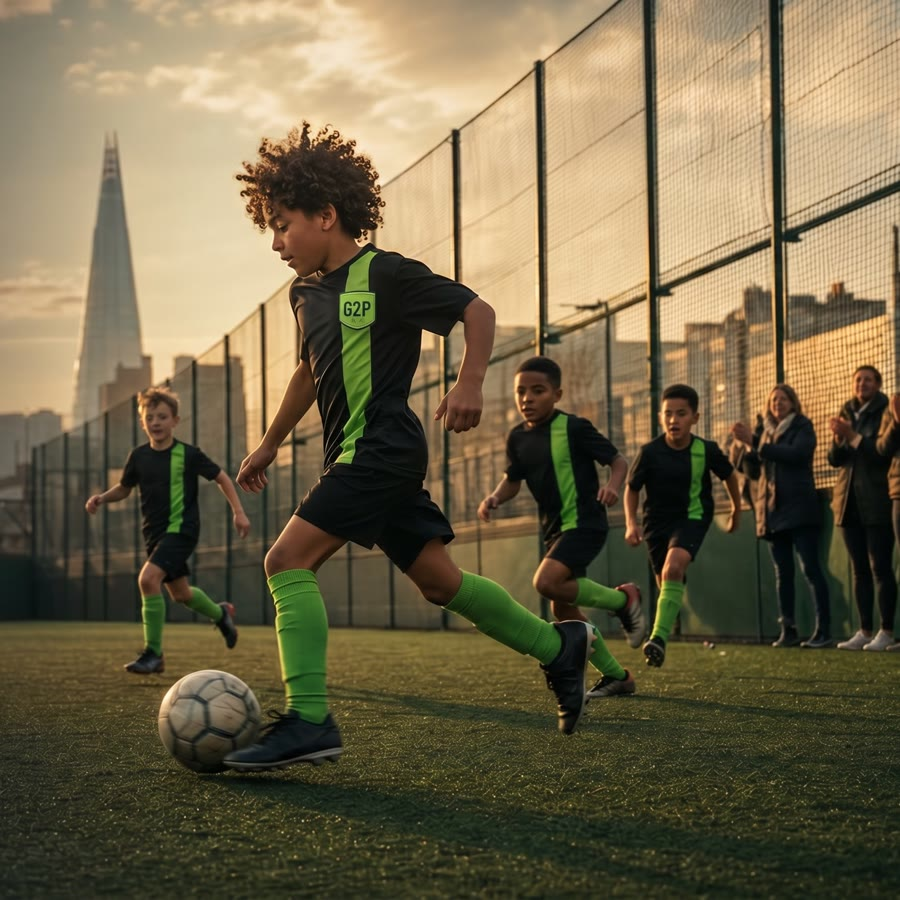
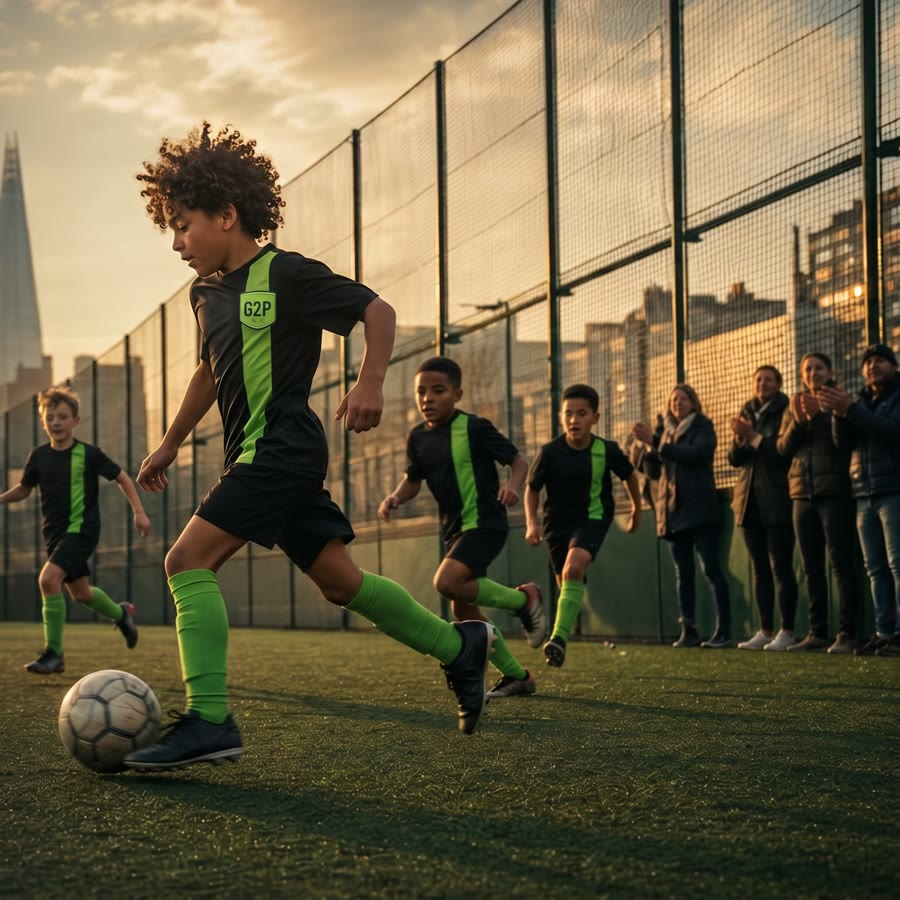
fix(homepage): mobile hero text positioning + reframe to keep parents
Five iPhone fixes from real-device testing:
1. Re-cropped portrait variant from x=0.38 -> x=0.46 of landscape so
   the cheering parents on the right are fully visible (was clipping
   half the parent group).
2. Kicker 'UK GRASSROOTS FOOTBALL, ORGANISED' now sits above the
   hero player's head (was over his face) by pushing all hero text
   to the bottom of the photo.
3. Headline 'Every match / Every minute / Every player' drops down
   so it sits on the pitch grass, revealing more of the photo.
4. Subhead now lives below the photo over the dark band, not over
   the player's legs.
5. Closed the big black gap between CTAs and the 'For parents' card
   by setting hero min-height: 0 + align-items: flex-end so the hero
   sizes to its content on phones (was 80vh / 700px reserve).

Mechanics: aspect-ratio: 1/1 on the photo card matches the new
900x900 source. Hero text uses padding-top: 62vw so the kicker lands
just above the player's head regardless of phone size. Gradient is
now a clean top-to-bottom fade so the upper crowd/sky stays bright
and the lower copy stays legible.

diff --git a/src/index.css b/src/index.css
@@ -5653,27 +5653,45 @@ html[data-surface="homepage"] body {
   .homepage-topbar {
     padding: 18px 20px;
   }
+  /* Mobile hero: align-items flex-end so the text block sits at the
+     BOTTOM of the photo (kicker just above the leading player's head,
+     CTAs near the lower edge), and let height grow to fit content so
+     there's no big black gap between the CTAs and the next section. */
   .homepage-hero {
     padding: 0 20px;
-    min-height: clamp(520px, 80vh, 700px);
+    min-height: 0;
+    align-items: flex-end;
   }
   /* Mobile uses a square 900x900 portrait variant (see HomepageCover
-     <picture>) that already shows the full scene. Keep cover so it
-     fills the hero, and centre it horizontally so the hero kid stays
-     roughly mid-frame. */
+     <picture>) that already shows the full scene. Centre it so the
+     hero kid sits left-of-centre and the cheering parents sit right. */
   .homepage-hero-photo img {
     object-position: center center;
   }
-  /* Soften the left-side gradient on phones so the parents/kids on
-     the right of the (now centred) crop don't get washed out, and
-     drop a darker bottom band to keep the headline legible. */
+  /* Vertical gradient: clear at the top so the kicker reads on the
+     soft sky, dark at the bottom so the headline + subhead + CTAs
+     stay legible over the pitch. */
   .homepage-hero-overlay {
-    background:
-      linear-gradient(180deg, rgba(11, 13, 10, 0.18) 0%, rgba(11, 13, 10, 0.32) 38%, rgba(11, 13, 10, 0.86) 100%),
-      radial-gradient(ellipse at 50% 100%, rgba(201, 233, 112, 0.16) 0%, transparent 60%);
+    background: linear-gradient(
+      180deg,
+      rgba(11, 13, 10, 0.10) 0%,
+      rgba(11, 13, 10, 0.18) 32%,
+      rgba(11, 13, 10, 0.55) 58%,
+      rgba(11, 13, 10, 0.92) 100%
+    );
+  }
+  /* Push the text down so the kicker lands above the hero player's
+     head and the rest of the copy sits over the pitch — not over the
+     player's body or face. The aspect-ratio: 1 makes the photo card
+     a perfect square (matches the 900x900 source), then text uses
+     padding-top to start ~62% down. */
+  .homepage-hero-photo {
+    aspect-ratio: 1 / 1;
+    height: auto;
+    inset: 0 0 auto 0;
   }
   .homepage-hero-text {
-    padding: 36px 0;
+    padding: 62vw 0 28px;
   }
   .homepage-cta {
     flex: 1 1 100%;
